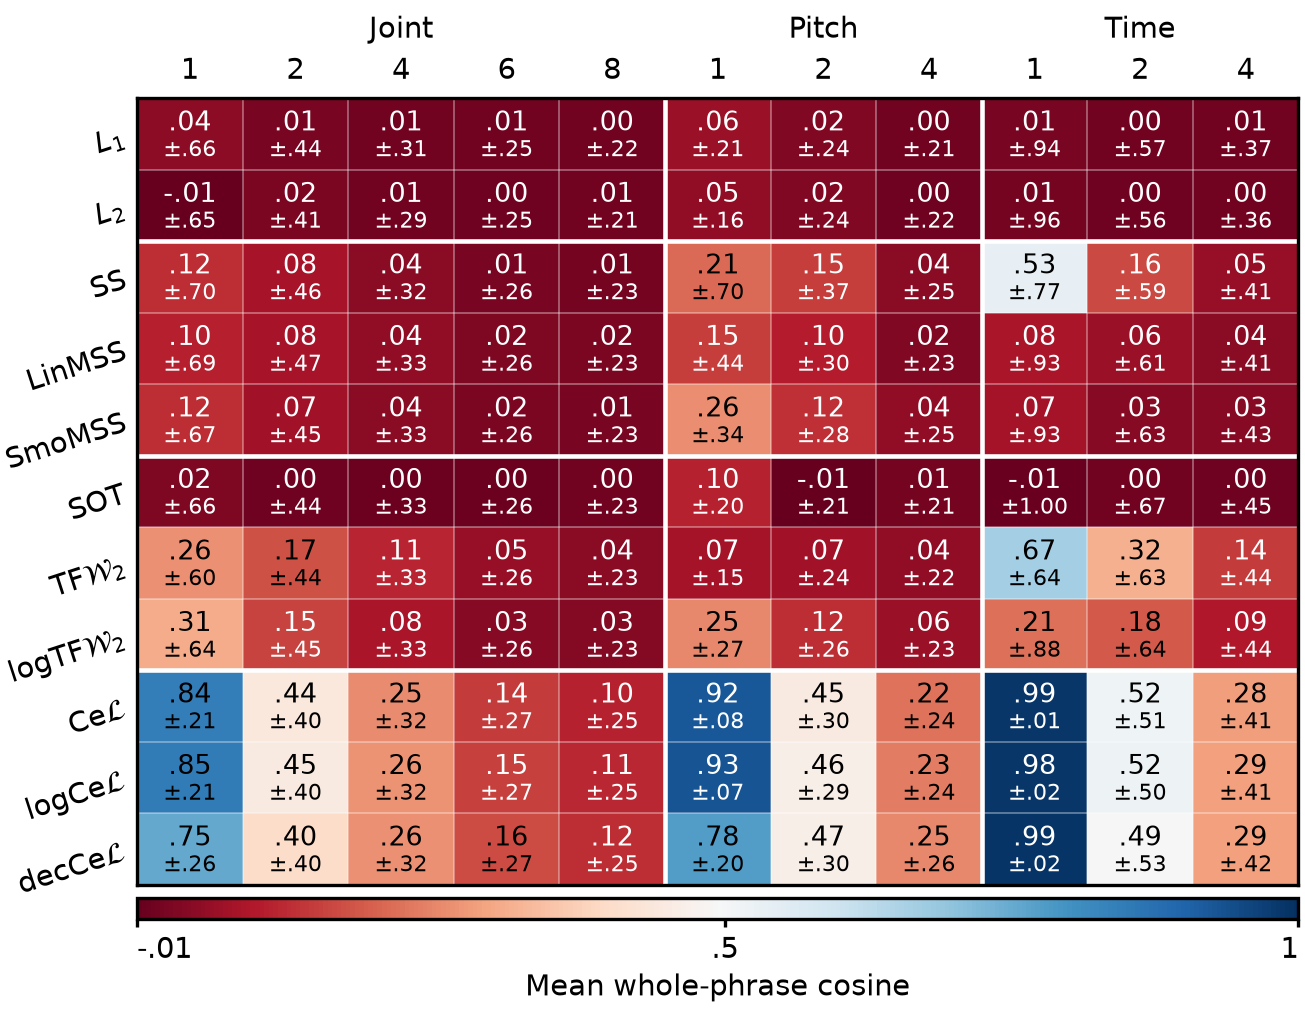
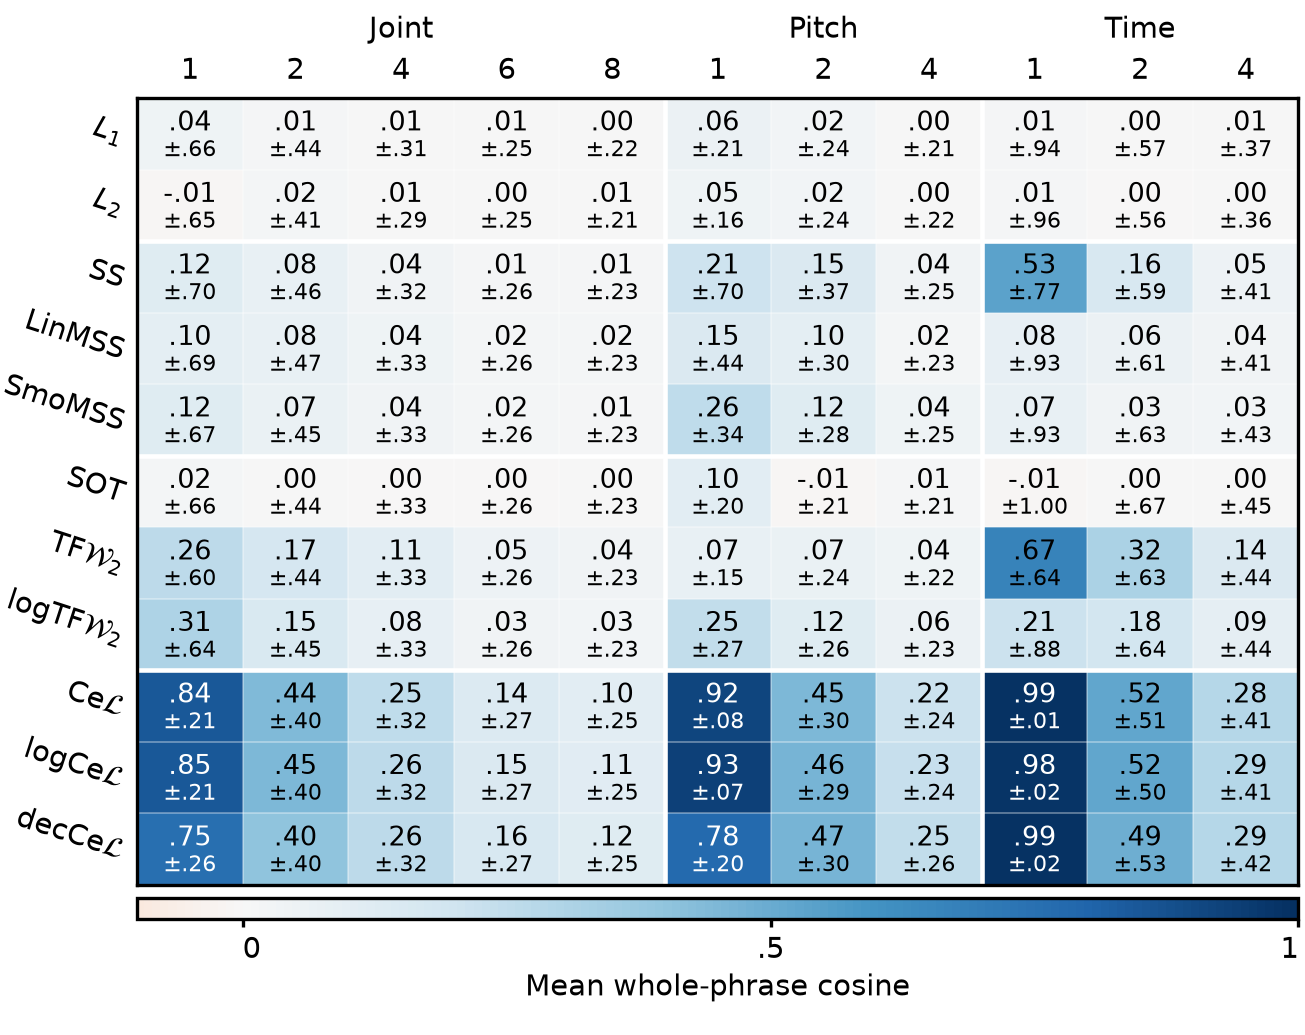
Keep full cosine normalization with cropped colour guide

diff --git a/scripts/report_gradient_alignment.py b/scripts/report_gradient_alignment.py
@@ -79,7 +79,7 @@ def render(
     anchored_style=False,
     cmap_name=None,
     output_stem=None,
-    observed_range=False,
+    cropped_colorbar=False,
     compact_layout=False,
 ):
     width = len(columns)
@@ -119,8 +119,8 @@ def render(
         ],
         N=1025,
     )
-    styled = anchored_style or cmap_name is not None or observed_range
-    lower = float(means.min()) if observed_range else 0 if percentage else -1
+    styled = anchored_style or cmap_name is not None or cropped_colorbar
+    lower = 0 if percentage else -1
     im = ax.imshow(
         means,
         cmap=(
@@ -139,7 +139,7 @@ def render(
     ax.set_yticks(range(11), LABELS)
     if compact_layout:
         for label in ax.get_yticklabels():
-            label.set_rotation(18)
+            label.set_rotation(-18)
             label.set_ha("right")
             label.set_rotation_mode("anchor")
     ax.set_xticks(range(width), [str(n) for n, _ in columns])
@@ -200,8 +200,8 @@ def render(
         im,
         cax=cax,
         orientation="horizontal",
-        ticks=[lower, 0.5, 1]
-        if observed_range
+        ticks=[0, 0.5, 1]
+        if cropped_colorbar
         else [-1, -0.5, 0, 0.5, 1]
         if styled
         else [0, 25, 50, 75, 100]
@@ -212,8 +212,9 @@ def render(
         METRICS[metric] + ("; (positive phrases %)" if positive_percent is not None else ""),
         labelpad=2,
     )
-    if observed_range:
-        cb.set_ticklabels([compact_cosine(lower), ".5", "1"])
+    if cropped_colorbar:
+        cb.ax.set_xlim(-0.1, 1)
+        cb.set_ticklabels(["0", ".5", "1"])
     elif styled:
         cb.set_ticklabels(["−1", "−.5", "0", ".5", "1"])
     cb.ax.tick_params(length=2, pad=2)

diff --git a/scripts/render_gradient_cosine_sd.py b/scripts/render_gradient_cosine_sd.py
@@ -31,7 +31,7 @@ def main():
         sds,
         EXTENDED_COLUMNS,
         cmap_name="RdBu",
-        observed_range=True,
+        cropped_colorbar=True,
         compact_layout=True,
     )
     headers = [
@@ -52,14 +52,15 @@ def main():
         json.dumps(
             dict(
                 cmap="RdBu",
-                vmin=float(means.min()),
+                vmin=-1.0,
                 observed_min=float(means.min()),
                 vmax=1.0,
-                ticks=[float(means.min()), 0.5, 1],
+                colorbar_xlim=[-0.1, 1.0],
+                ticks=[0, 0.5, 1],
                 observed_max=float(means.max()),
                 annotations="mean ± sample SD across candidate phrases; leading zero omitted",
                 layout=(
-                    "4.35 by 3.45 inches; 18-degree row labels; tight outer margins; "
+                    "4.35 by 3.45 inches; -18-degree row labels; tight outer margins; "
                     "colour bar nearly touches the table"
                 ),
                 source="summary.csv",

diff --git a/docs/gradient-assessment/alignment-extended/README.md b/docs/gradient-assessment/alignment-extended/README.md
@@ -92,12 +92,13 @@ Reproduce with `scripts/render_gradient_cosine_positive.py` using the project Py
 
 The primary [phrase-cosine figure](phrase-cosine.png) again shows mean ± SD,
 with the leading zero omitted in both numbers. It restores Matplotlib's original
-deep-red-to-deep-blue `RdBu` scale and stretches it across the means actually
-observed, from −.012572... to 1. The colour bar marks its lower endpoint, .5
-and 1; negative means are retained without clipping. Colour encodes mean only,
-not SD. Loss names are abbreviated, the joint groups are labelled `Joint`, and
-slightly inclined row labels allow tighter outer margins. The colour bar sits
-immediately beneath the table.
+deep-red-to-deep-blue `RdBu` scale with its full −1-to-1 normalization. The
+visible colour bar is cropped to −.1 through 1 because the observed means reach
+only −.012572..., and it marks 0, .5 and 1. The cells remain normalized against
+the full range; negative means are neither clipped nor rescaled. Colour encodes
+mean only, not SD. Loss names are abbreviated, the joint groups are labelled
+`Joint`, and clockwise-inclined row labels allow tighter outer margins. The
+colour bar sits immediately beneath the table.
 The percentage-combination figure remains available as an alternative.
 Reproduce the current figure with `scripts/render_gradient_cosine_sd.py` using
 the project Python. Exact colour limits are in phrase-cosine-style.json.
